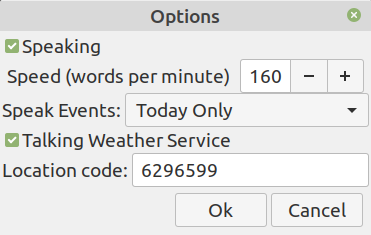
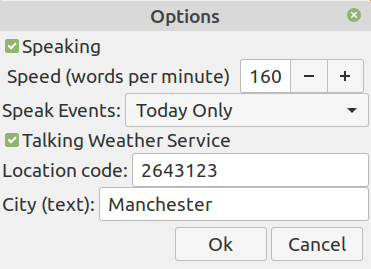
updated deb testing package 0.3.0-2

Changed region(s): [[0.0, 0.1191, 1.0, 0.983], [0.3854, 0.0298, 0.593, 0.1191], [0.9191, 0.0298, 0.9784, 0.0894]]

diff --git a/README.md b/README.md
@@ -1,6 +1,5 @@
 #   Event Talker - Talking Events Assistant
 
-This repository is mirrored at https://gitlab.com/crispinalan/eventtalker
 
 ## Overview
 
@@ -39,8 +38,8 @@ Double click on a calendar date to enter an event (e.g. meetings, birthdays etc)
 
 * Event Talker version 0.3.0 alpha (testing) incorporates a basic talking weather service
 * Event Talker works with weather data from the BBC 
-* Using the options dialog to enter a location code for your area
-* Then use the Tools->Weather_Today menu item to use the talking weather service
+* Use the options dialog to enter a location code for your area and the city/area name
+* Then use the Tools->Weather_Today menu item to invoke the talking weather service
 
 ![](location.png)
 
@@ -68,7 +67,6 @@ Some examples of weather codes are shown below.
 5128581 New York USA
 4140963 Washington DC USA
 ```
-For best results, use weather data from nearby airports when you can.
 
 ## Installing - First Verify Deb Package
 
